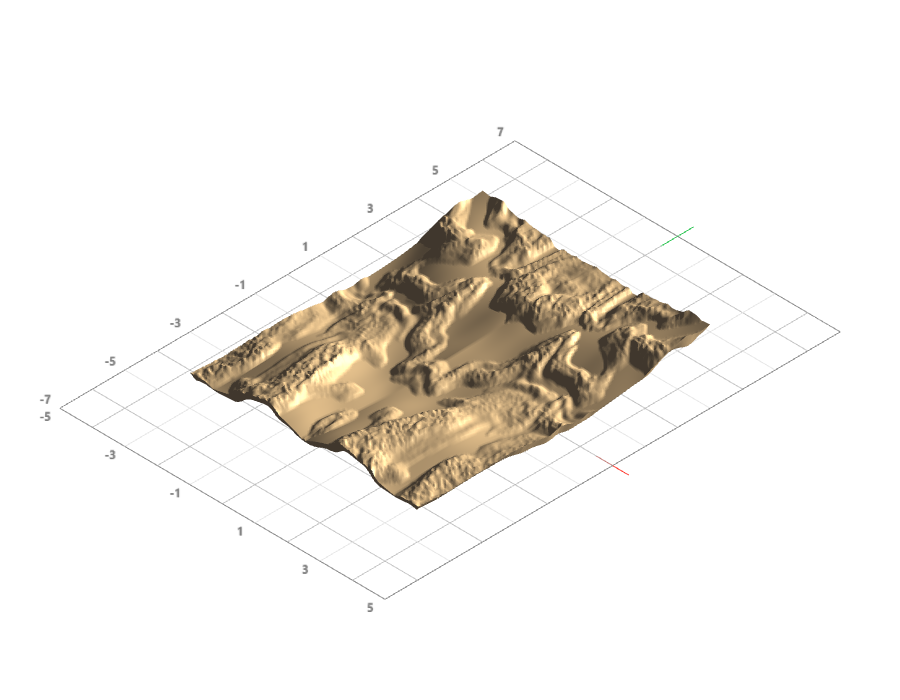
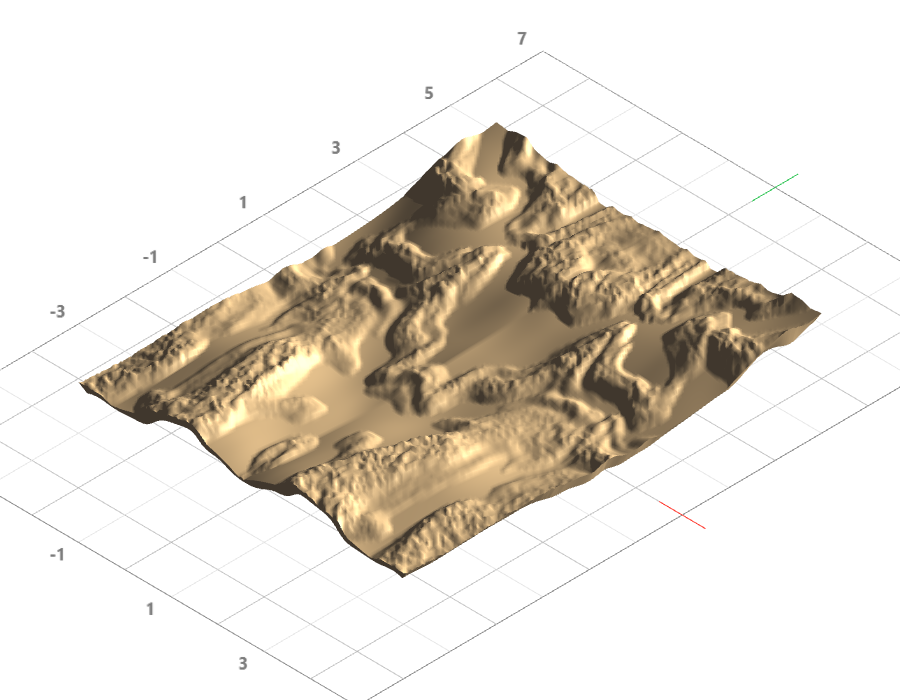
T78 item 4: WIND DUNES real asymmetric profile (gentle stoss, steep lee, sharp crest)
Rebuilt the dune cross-section as an off-centre triangle wave (a new
exported _duneCrossSection helper) whose own peak sits at 72% through each
wavelength, not the midpoint: the climb spans 72% of the wavelength (gentle
windward/stoss slope), the drop spans only the remaining 28% (a
geometrically steeper lee/slip-face for the same height range).
crestSharpness keeps sharpening the peak on top, same as before.

The OLD profile built its asymmetry by ATTENUATING the AMPLITUDE on the lee
side of a symmetric sine wave via a separate `lee` multiplier -- which
actually makes that side SHALLOWER, not steeper (multiplying a smooth curve
by a fraction <1 flattens it, it doesn't add slope). Real dune asymmetry is
a SHAPE property, not an amplitude one, which is what this rework fixes.
Removed the now-redundant `lee` term entirely. Bumped the profile's own
amplitude (0.45 -> 0.62) for "enough height to carve" per the dispatch.
Kept the per-region wind-curve rotation, cross-ripples, and sand-grain
texture unchanged.

Also fixes a real bug in tools/repro/filter_shots.mjs (item 1's own render
tool), found while trying to capture a close-up cross-section shot of the
new dune profile: snapping `_orbit._orb` alone does NOT reliably move the
rendered camera in a headless/unfocused page, since the app's own animate
loop (which normally turns `_orb` into `_camera.position`/`quaternion`
every frame) does not reliably tick headlessly -- a custom side-angle shot
[…]

diff --git a/tests/noise-dunes.test.js b/tests/noise-dunes.test.js
@@ -1,0 +1,120 @@
+/**
+ * T78 item 4 (FILTER REWORK, Fred: dunes read as "a low flat slab with
+ * fine ripples, no real crests") — dunes.js: a real asymmetric dune
+ * cross-section (gentle windward/stoss climb, steep lee/slip-face drop),
+ * a sharp crest, enough height to carve, and the existing cross-ripples +
+ * curving-crest mechanics kept intact.
+ */
+import { describe, it, expect } from 'vitest';
+import { PerlinNoise } from '../bspline-frame-builder/b-spline-gen/html/core/noise.js';
+import * as dunes from '../bspline-frame-builder/b-spline-gen/html/core/noise/dunes.js';
+import { _duneCrossSection } from '../bspline-frame-builder/b-spline-gen/html/core/noise/dunes.js';
+import * as simplex from '../bspline-frame-builder/b-spline-gen/html/core/noise/simplex.js';
+
+const ASPECT = 7 / 9;
+const PARAMS = { scale: 3.7, octaves: 4, roughness: 0.5, warpIntensity: 1.0, tweaks: {} };
+
+function sample(mod, seed, n, tweaks = {}) {
+  const noiseFine = new PerlinNoise(seed);
+  const noiseWarp = new PerlinNoise(seed ^ 0x9e3779b9);
+  const noiseRefs = { noiseFine, noiseWarp };
+  const params = { ...PARAMS, tweaks };
+  const values = [];
+  for (let j = 0; j < n; j++) {
+    for (let i = 0; i < n; i++) {
+      values.push(mod.fn(i / (n - 1), j / (n - 1), ASPECT, params, noiseRefs));
+    }
+  }
+  return values;
+}
+
+function meanStdDev(values) {
+  const mean = values.reduce((a, b) => a + b, 0) / values.length;
+  const variance = values.reduce((a, b) => a + (b - mean) ** 2, 0) / values.length;
+  return { mean, stdDev: Math.sqrt(variance) };
+}
+
+describe('dunes.js: item 6 -- existing tweak keys preserved, unchanged defaults', () => {
+  it('still declares exactly the 3 original tweak keys at their original defaults', () => {
+    const byKey = Object.fromEntries(dunes.tweaks.map((t) => [t.key, t]));
+    expect(byKey.crestSharpness.default).toBe(1.8);
+    expect(byKey.windCurve.default).toBe(0.6);
+    expect(byKey.rippleStrength.default).toBe(0.04);
+    expect(dunes.tweaks).toHaveLength(3);
+  });
+});
+
+describe('dunes.js: determinism', () => {
+  it('the same seed + params always produces the same output', () => {
+    expect(sample(dunes, 42, 24)).toEqual(sample(dunes, 42, 24));
+  });
+});
+
+describe('dunes.js: _duneCrossSection -- real asymmetric profile, steep lee, gentle stoss', () => {
+  // Direct unit tests on the core shaping function, isolated from the
+  // wind-angle rotation/warp `fn()` layers on top -- a raw scan across the
+  // full rotated+warped fn() doesn't reliably show the asymmetry at every
+  // cross-section (the slowly-varying wind angle can cut a scan line at a
+  // shallow angle to the crest, distorting the apparent local slope
+  // ratio), so this is the precise, non-flaky place to verify the shape
+  // itself.
+  it('the climb (stoss) spans a WIDER fraction of the wavelength than the drop (lee) -- rises gently, falls quickly', () => {
+    const N = 2000;
+    let maxRise = 0; let maxFall = 0;
+    for (let i = 1; i < N; i++) {
+      const a = _duneCrossSection((i - 1) / N, 1); // crestSharpness:1 -- the raw triangle wave, unsharpened
+      const b = _duneCrossSection(i / N, 1);
+      const d = b - a;
+      if (d > maxRise) maxRise = d;
+      if (-d > maxFall) maxFall = -d;
+    }
+    // stossFrac=0.72 means the drop is covers only 28% of the wavelength
+    // vs the climb's 72% -- for the same height range (0 to 1), the drop's
+    // own per-sample slope should be roughly 0.72/0.28 =~ 2.57x steeper.
+    expect(maxFall).toBeGreaterThan(maxRise * 2.0);
+  });
+
+  it('the profile is 0 at the trough (frac=0) and 1 at the crest (frac=stossFrac=0.72)', () => {
+    expect(_duneCrossSection(0, 1)).toBeCloseTo(0, 5);
+    expect(_duneCrossSection(0.72, 1)).toBeCloseTo(1, 5);
+  });
+
+  it('wraps correctly across wavelength boundaries (frac=1 behaves like frac=0)', () => {
+    expect(_duneCrossSection(1.0, 1)).toBeCloseTo(_duneCrossSection(0, 1), 5);
+    expect(_duneCrossSection(1.72, 1)).toBeCloseTo(_duneCrossSection(0.72, 1), 5);
+  });
+
+  it('crestSharpness still sharpens the peak -- a higher value produces a smaller fraction of "near-peak" samples', () => {
+    const low = sample(dunes, 42, 64, { crestSharpness: 0.8 });
+    const high = sample(dunes, 42, 64, { crestSharpness: 4.0 });
+    const nearPeakFrac = (arr) => arr.filter((v) => v > 0.5).length / arr.length;
+    expect(nearPeakFrac(high)).toBeLessThan(nearPeakFrac(low));
+  });
+});
+
+describe('dunes.js: item 6 -- enough height to carve (relief comparable to Simplex)', () => {
+  it("dunes's stdDev at the default tweaks is at least Simplex's own, across several seeds", () => {
+    for (const seed of [1, 42, 100]) {
+      const dunesStats = meanStdDev(sample(dunes, seed, 64));
+      const simplexStats = meanStdDev(sample(simplex, seed, 64));
+      expect(dunesStats.stdDev, `seed ${seed}: dunes stdDev ${dunesStats.stdDev} vs simplex ${simplexStats.stdDev}`)
+        .toBeGreaterThan(simplexStats.stdDev);
+    }
+  });
+});
+
+describe('dunes.js: cross-ripples and curving crests kept', () => {
+  it('rippleStrength is a real multiplier -- a higher value measurably changes the output from a zero-ripple baseline', () => {
+    const none = sample(dunes, 42, 48, { rippleStrength: 0 });
+    const strong = sample(dunes, 42, 48, { rippleStrength: 0.2 });
+    let totalDiff = 0;
+    for (let i = 0; i < none.length; i++) totalDiff += Math.abs(strong[i] - none[i]);
+    expect(totalDiff / none.length).toBeGreaterThan(0.005);
+  });
+
+  it('windCurve still varies the dune direction -- windCurve:0 (parallel dunes) differs from windCurve:1.2 (curving dunes)', () => {
+    const straight = sample(dunes, 42, 48, { windCurve: 0 });
+    const curving = sample(dunes, 42, 48, { windCurve: 1.2 });
+    expect(straight).not.toEqual(curving);
+  });
+});

diff --git a/bspline-frame-builder/b-spline-gen/html/core/noise/dunes.js b/bspline-frame-builder/b-spline-gen/html/core/noise/dunes.js
@@ -1,16 +1,28 @@
 /**
  * Dunes (Wind-Sculpted Sand) 🏜🌬
- * Long parallel sand crests with smooth windward face and steeper lee
- * face, fine cross-ripples on the flanks, and per-region wind
- * direction so the dunes curve across the field.
+ * Long parallel sand crests with a REAL asymmetric cross-section — a
+ * gentle windward (stoss) climb and a short, steep lee/slip-face drop
+ * right past the sharp crest — fine cross-ripples on the flanks, and
+ * per-region wind direction so the dunes curve across the field.
+ *
+ * T78 (Fred: the old profile read as "a low flat slab with fine ripples,
+ * no real crests") REWORK: the previous version built its asymmetry by
+ * ATTENUATING the AMPLITUDE on the lee side of a symmetric sine wave,
+ * which actually made the lee side SHALLOWER, not steeper (multiplying a
+ * smooth curve by a fraction <1 flattens it). Real dune asymmetry is a
+ * SHAPE property, not an amplitude one: the same height change happens
+ * over a much shorter horizontal run on the lee side. Rebuilt from a
+ * triangle wave whose own peak sits at `stossFrac` through each
+ * wavelength (not the midpoint) — the climb spans stossFrac of the
+ * wavelength, the drop spans only the rest, so the lee slope really is
+ * geometrically steeper for an identical height range.
  *
  * Composition:
- *   1. Anisotropic wave   — sin of compressed coordinate gives long
- *                           parallel crests (V-axis 5× compressed).
- *   2. Asymmetric profile — pow + lee-face softening produces the
- *                           characteristic dune cross-section.
- *   3. Cross-ripples      — high-freq sin perpendicular to the wind.
- *   4. Wind-blown grain   — fine FBM micro-texture.
+ *   1. Asymmetric profile — an off-centre triangle wave (gentle stoss
+ *                           climb, steep lee drop) sharpened at the peak
+ *                           for a crisp crest.
+ *   2. Cross-ripples      — high-freq sin perpendicular to the wind.
+ *   3. Wind-blown grain   — fine FBM micro-texture.
  */
 export const id = 'dunes';
 export const label = 'Wind Dunes';
@@ -21,6 +33,28 @@ export const tweaks = [
   { key: 'windCurve',       label: 'Wind Curve',       default: 0.6, min: 0.0, max: 1.5, step: 0.05, desc: 'Per-region wind angle range; 0 = parallel dunes' },
   { key: 'rippleStrength',  label: 'Ripple Strength',  default: 0.04, min: 0.00, max: 0.20, step: 0.01, desc: 'Cross-ripple amplitude on dune flanks' },
 ];
+
+// 72% of each wavelength is the gentle windward (stoss) climb; the
+// remaining 28% is the steep lee/slip-face drop right past the crest.
+const STOSS_FRAC = 0.72;
+
+/**
+ * The core asymmetric dune cross-section, isolated from the wind-angle
+ * rotation/warp so its own shape can be verified directly (a raw scan
+ * across the full, rotated+warped `fn()` doesn't reliably show the
+ * asymmetry at every cross-section -- the slowly-varying wind angle can
+ * cut a scan line at a shallow angle to the crest, distorting the
+ * apparent local slope ratio; this pure function is not subject to that).
+ * `frac` is position within one wavelength, [0,1). Exported for direct
+ * testing.
+ */
+export function _duneCrossSection(frac, crestSharpness) {
+  const wrapped = frac - Math.floor(frac);
+  const tri = wrapped < STOSS_FRAC
+    ? wrapped / STOSS_FRAC // 0 -> 1, gentle climb
+    : 1 - (wrapped - STOSS_FRAC) / (1 - STOSS_FRAC); // 1 -> 0, STEEP drop
+  return Math.pow(Math.max(0, tri), crestSharpness);
+}
 
 export const fn = (su, sv, aspect, params, noiseRefs) => {
   const { scale, warpIntensity } = params;
@@ -44,21 +78,17 @@ export const fn = (su, sv, aspect, params, noiseRefs) => {
   const u = ((su + wx) * ca - (sv + wy) * sa) * scale * 1.6;
   const v = ((su + wx) * sa + (sv + wy) * ca) * scale * 0.30;
 
-  // ── 1. CREST WAVE ──────────────────────────────────────────────────
+  // ── 1. ASYMMETRIC DUNE PROFILE (stoss climb, lee drop) ──────────────
   const phase = u + noiseFine.fbm(u * 0.3, v * 0.3, 3) * 1.6;
-  const wave = (Math.sin(phase) + 1) * 0.5;
-  const sharpened = Math.pow(wave, crestSharpness);
+  const frac = phase / (Math.PI * 2);
+  const sharpened = _duneCrossSection(frac, crestSharpness);
+  const dunes = sharpened * 0.62; // "enough height to carve" (T78)
 
-  // ── 2. ASYMMETRIC LEE FACE ─────────────────────────────────────────
-  const slope = Math.cos(phase + 0.3);
-  const lee = slope > 0 ? 1.0 : Math.max(0, 1.0 + slope * 0.5);
-  const dunes = sharpened * lee * 0.45;
-
-  // ── 3. CROSS-RIPPLES ───────────────────────────────────────────────
+  // ── 2. CROSS-RIPPLES ───────────────────────────────────────────────
   const rippleF = scale * 24.0;
   const ripples = Math.pow(Math.abs(Math.sin(v * rippleF + noiseFine.noise2(u, v) * 1.2)), 2.0) * rippleStrength * sharpened;
 
-  // ── 4. WIND-BLOWN SAND GRAIN ───────────────────────────────────────
+  // ── 3. WIND-BLOWN SAND GRAIN ───────────────────────────────────────
   const grain = (noiseFine.fbm(u * 8.0, v * 8.0, 3) + 1) * 0.5 * 0.04;
 
   return dunes + ripples + grain;
